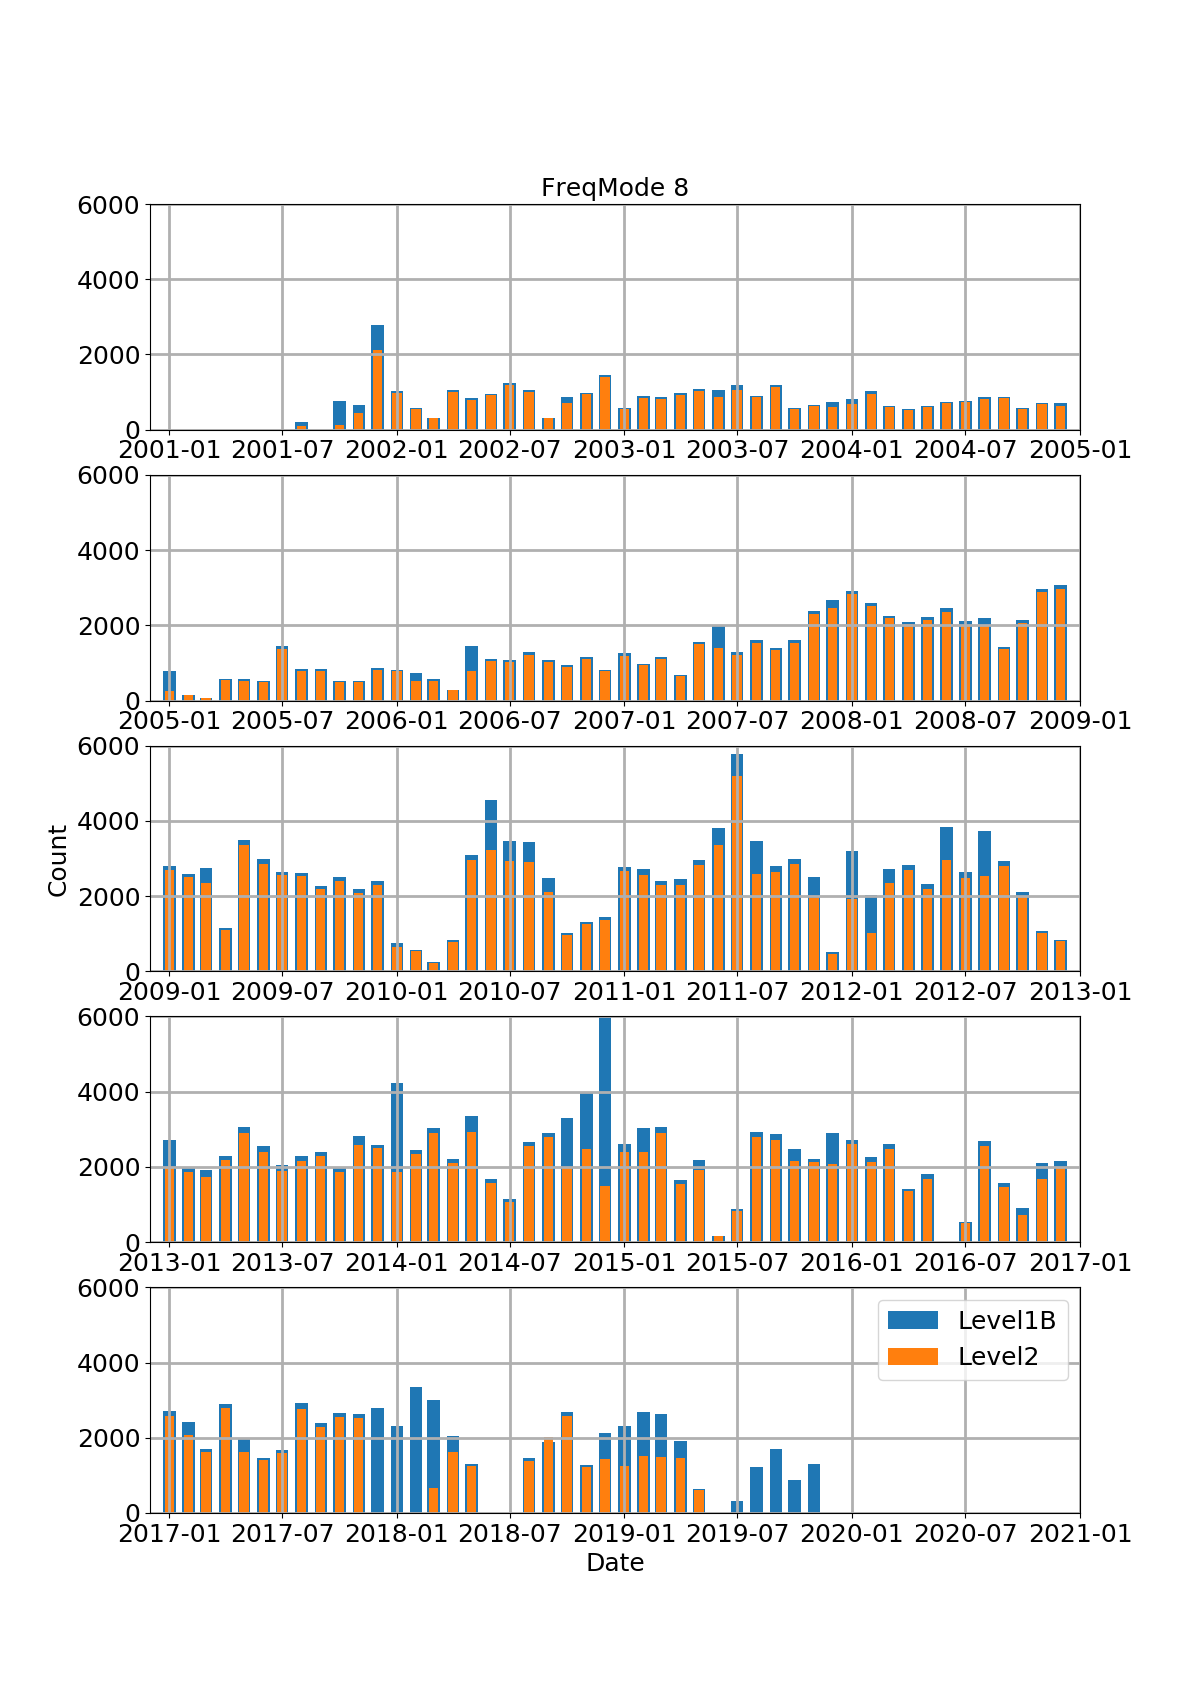
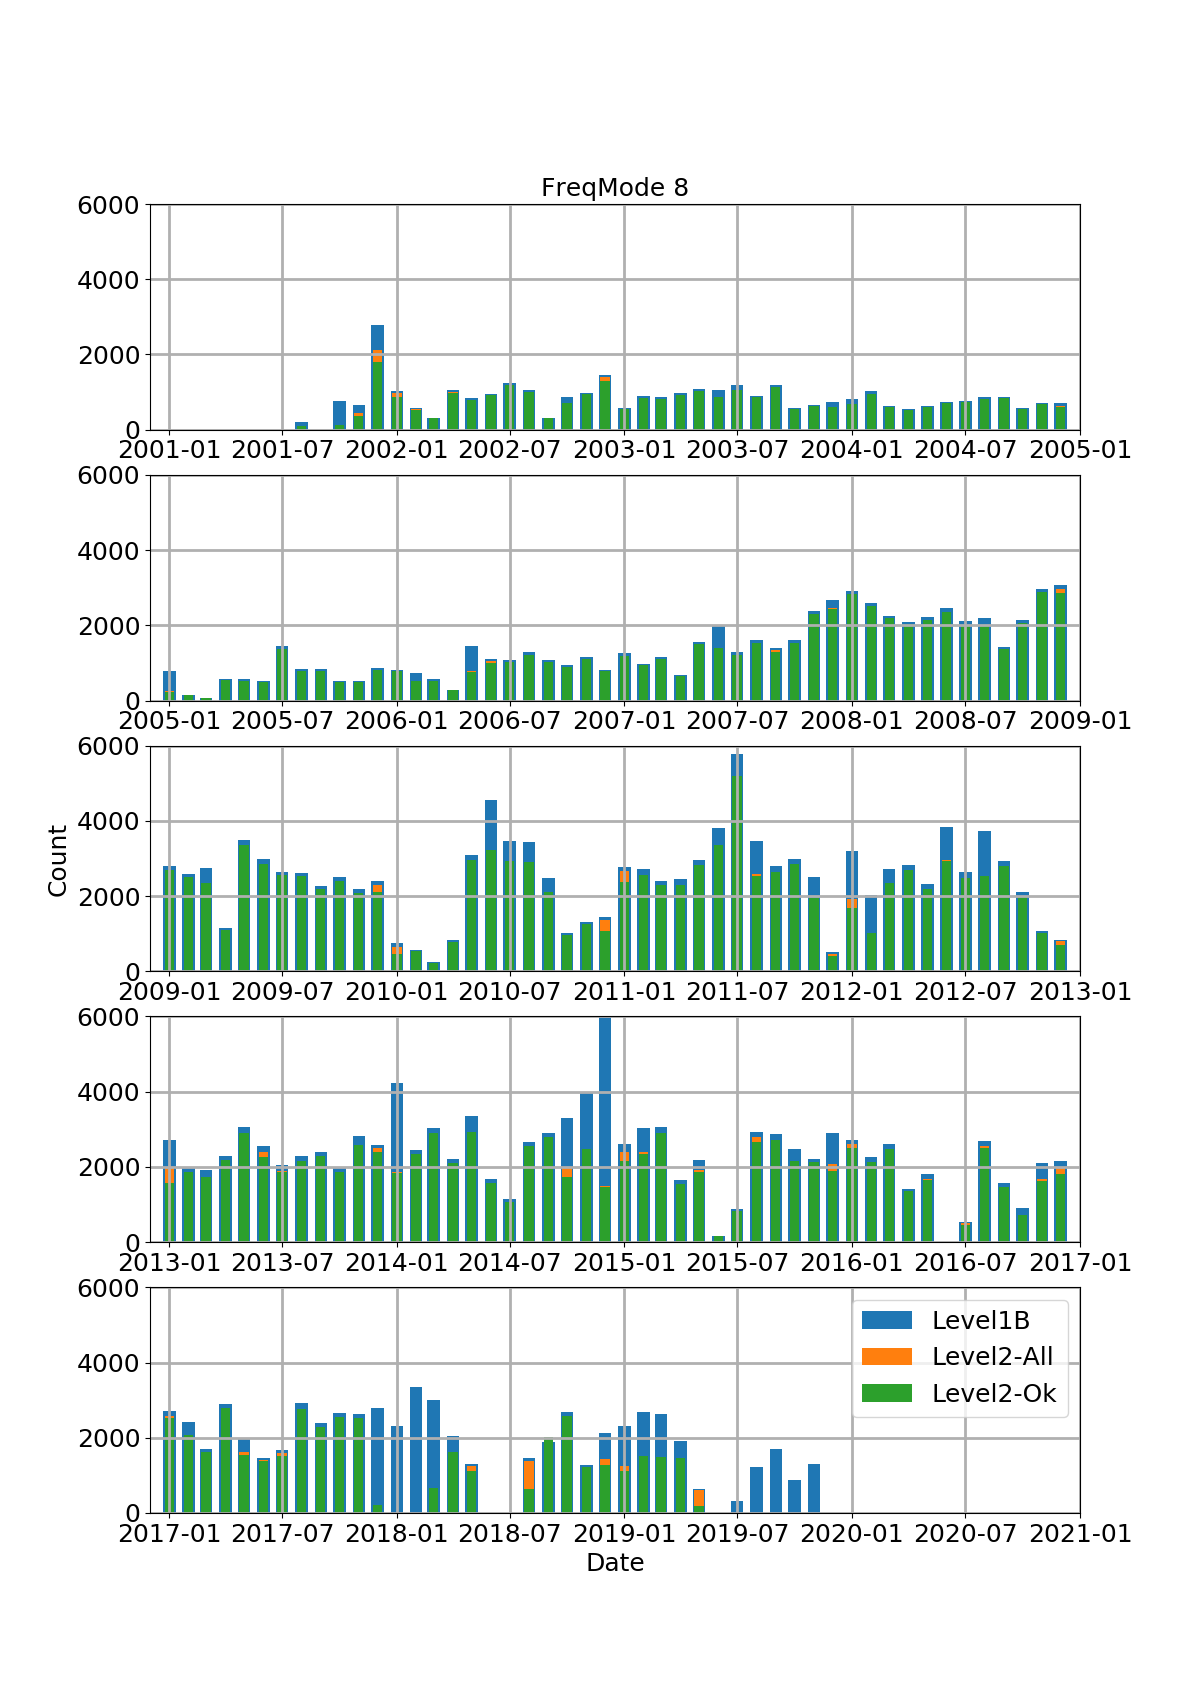
updating tables in CAD and DBMI doc

diff --git a/L2_CAD/completeness_analysis.tex b/L2_CAD/completeness_analysis.tex
@@ -1,40 +1,41 @@
 \chapter{Completeness analysis}
 \label{chapter:cad}
 
+
 \begin{table}
-\caption{ \smr\ Level1B and Level2 data count by frequency mode.}
+\caption{ \textbf{To be updated.} \smr\ Level1B and Level2 data count by frequency mode.
+Level2 data are further categorized into two classes: "All-Level2" and "Ok-Level2",
+where "Ok-Level2" means that the Level2 processing produced a result with a valid
+quality.
+Column "succes rate - Level2" and "succes rate - Ok Level2" describes the fraction of
+"Level2 count - All" over "Level1B count" and "Level2 count - ok" over "Level2 count - All".}
 \label{table:count}
 \scalebox{0.965}{%
-\begin{tabular}{|l|l|l|l|}
+\begin{tabular}{| *{6}{c|} }
+    \hline
+\textbf{Frequency mode} & \textbf{Level1B count}
+            & \multicolumn{2}{c|}{\textbf{Level2 count}}
+                    & \multicolumn{2}{c|}{\textbf{Succes rate [\(\%\)]}} \\
+    &    & All & Ok & Level2 & Ok Level2  \\
+    \hline
+    \hline
+  01 & 1924043 & 1711616 & 1494160 & 89.0 & 87.3\\
   \hline
-  \textbf{Frequency mode} & \textbf{Level1B count} & \textbf{Level2 count}  & \textbf{Fraction [\(\%\)]} \\
+  02 & 1907511 & 1541197 & 1463753 & 80.8 & 95.0\\
   \hline
+  08 & 400901 & 335727 & 329448 & 83.7 & 98.1\\
   \hline
-  01 & 1924043 & 1711616 & 89.0\\
+  13 & 359696 & 294299 & 269568  & 81.8 & 91.6\\
   \hline
+  14 & 365195 & 218611 & 201758 & 59.9 & 92.2\\
   \hline
-  02 & 1907511 & 1541197 & 80.8 \\
+  19 & 400037 & 332057 & 235699 & 83.0 & 71.0\\
   \hline
+  21 & 344476 & 299992 & 276128 & 87.1 & 92.0\\
   \hline
-  08 & 400901 & 335727 & 83.7\\
+  22 & 93374 & 56768 & 56452 & 60.8 & 99.4\\
   \hline
-  \hline
-  13 & 359696 & 294299 & 81.8\\   
-  \hline
-  \hline
-  14 & 365195 & 218611 & 59.9\\
-  \hline
-  \hline
-  19 & 400037 & 332057 & 83.0\\
-  \hline
-  \hline
-  21 & 344476 & 299992 & 87.1 \\
-  \hline
-  \hline
-  22 & 93374 & 56768 & 60.8 \\
-  \hline
-  \hline
-  24 & 15794 & 12873 & 81.5 \\
+  24 & 15794 & 12873 & 12655 & 81.5 & 98.3\\
   \hline
 \end{tabular}}
 \end{table}
@@ -44,7 +45,7 @@ Table~\ref{table:count} and Figure~\ref{fig:l2cad-fm1} to
 Figure~\ref{fig:l2cad-fm24} show the amount af available Level1B
 data and succesfully processed Level2 data for the considered
 FreqModes by month, from the start of the mission until the
-end of 2019.
+end of 2019. 
 
 The amount of available Level1B data varies during mission,
 and there are a number of reasons for this.
@@ -65,27 +66,68 @@ ERA-Interim reanalysis data (Level2 processor source for
 required altitude, pressure, and temperature data)
 were stopped being produced by then.
 
-FreqMode 1 and 2
-are the most frequently applied modes, and 5000-10000 scans have been
-observed each month. Level2 processing have been succesfully
-for the majority (89 and 81 \,\%, respectively) of the available Level1B data.
-One of the main reason for an unsuccesful Level2 processing is here
-that some scans do not cover a required altitude range,
-or that to few spectra are available within this range,
+FreqMode 1 and 2 are the most frequently applied modes, and
+about 5000-10000 scans have been observed each month. Level2 processing
+generated in a result for the majority (89 and 81\,\%, respectively) of
+the available Level1B data. One of the main reason for the
+Level2 processing to not generate in a result
+is here that some scans do not cover a required
+altitude range, or that to few spectra are available within this range,
 i.e. not enough spread of the tangent altitude of individual spectra. 
+The majority of FreqMode 2 Level2 data have a valid quality.
+A valid quality means here that the 
+\begin{itemize}
 
-Level2 processing of the FreqMode 21 (\chem{NO} mode) has also
-a relatively high succes rate (87\,\%).
+  \item MinLmFactor \([-]\): The minimum value of the Levenberg - Marquardt factor during the OEM iterations, and the
+
+  \item Residual \([K]\):  The difference between the spectra matching retrieved state and
+   used measurement spectra
+
+\end{itemize}
+are below specified thresholds (2 and 1.5\,K, respectively).
+This is also true for FreqMode 1, except for data after summer
+of 2014 where a large fraction of the produced Level2 data
+have an unsatisfactory quality. Instrumental problems
+with this mode for the later part of the mission is discussed
+in \cite{dds}.
+
+Level2 processing generated in a result for about 84\,\%
+of the FreqMode 8 observations. The fraction of valid Level2
+data is high (98 \,\%) for FreqMode 8.
+One reason for this high fraction of valid Level2 data
+is that the quality criteria is less strict for FreqMode 8,
+compared to most other modes (except 13 and 19).
+These mode showed considerable sideband leakage, and a correction
+has been applied ~\cite{dds}. 
+
+
+% 
+% A possible reason for this is that this mode showed considerable
+% sideband leakage, and a correction has been applied ~\cite{dds},
+% but the result seems to be that this results in Level2 data
+% that are not classified as valid. \textbf{TODO: check if our
+% current quality filter is to hard, or if this is the truth.}
+
 For the water vapor modes around 557 GHz (FreqMode
-13 and 19) the succes rate is around 82\,\%.
+13 and 19) the Level2 processing generates in a result for
+about 82\,\% of the scans. The fraction of Level2 
+data with a valid quality is 92 and 71 \,\% for FreqMode
+13 and 19, respectively.
+Issues with FreqMode 13 and 19 observations are discussed
+in \cite{dds}.
  
+Level2 processing of the FreqMode 21 (\chem{NO} mode)
+generated in a result for about 87\,\% of the scans.
+Most of this data (92\,\%) have a satisfactory quality.
+
 FreqMode 14, 22, 24 are deployed for \chem{CO} observations.
 The frontend used for these observations have been unstable
 (drifting in frequency), and that can result in that the 
 \chem{CO} signature is not covered in observed spectra 
 of some of the scans. This gives that the fraction of
-sussessful level2 processing is lower for these modes
-compared to the others.
+level2 data produced is lower for those modes.
+However, the data are valid for a high percentage
+(above 92\,\%) for the Level2 data actually produced.  
  
 
 \begin{figure}[t]

diff --git a/DBMI/settings.tex b/DBMI/settings.tex
@@ -1,6 +1,6 @@
 \chapter{Level2 processing configuration}
 
-\section{Overview}
+\section{Configuration by frequency mode}
 The \smr\ Level2 processing is controlled by a tailored matlab software
 package. The retrieval settings for the various modes of \smr\
 are defined by two matlab functions:
@@ -18,7 +18,7 @@ of the parameters for the standard and mesospheric modes
 are described in Sect.~\ref{sec:standard} and Sect.~\ref{sec:meso},
 respectively.
 
-\section{Configuration description}
+\subsection{Configuration description}
 \label{sec:config}
 
 This section contains a brief description of the settings considered by the
@@ -383,4 +383,26 @@ limits. This check is done after applying ZTAN\_LIMIT\_BOT/TOP.
 \subsection{Q meso}
 \label{sec:meso}
 \verbinput{q_meso.m}
+
+\clearpage
+\newpage
+\section{Spectroscopic data and absorption continua}
+\label{sec:spectroscopy}
+
+The bulk of the data are taken from the latest HITRAN database.
+For the most important transitions for \smr\ some hand-picked
+data are used to replace the corresponding value in HITRAN,
+and this is described in Sect.~\ref{sec:linedata}.
+Nitrogen and water vapour continua models applied
+are described in Sect.~\ref{sec:continua}.
+
+
+\subsection{Nitrogen and water vapour continua}
+\label{sec:continua}
+\verbinput{continua_std.arts}
+
+\subsection{\smr\ linedata}
+\verbinput{h2o_notes.txt}
+\label{sec:linedata}
+\verbinput{smr_linedata.notes}
 

diff --git a/DBMI/introduction.tex b/DBMI/introduction.tex
@@ -42,5 +42,6 @@ as it for example should allow for a reproduction of the results.
 \section{Document structure}
 
 Chapter 2 defines the configuration of the \smr\ Level2
-processing, and the actual setting deployed for the various
-frequency modes.  
+processing, the actual setting deployed for the various
+frequency modes, and the source and modifications of
+applied spectroscopic data and absorption continua models.

diff --git a/L2_CAD/CAD.tex b/L2_CAD/CAD.tex
@@ -6,6 +6,7 @@ singlelinecheck=false % <-- important
 \usepackage{longtable}
 \usepackage{bookmark}
 \usepackage{listings}
+\usepackage{multirow}
 
 % Define cover page
 \def\CoverTitle{Odin/SMR Level2 Completeness Analysis Document}
